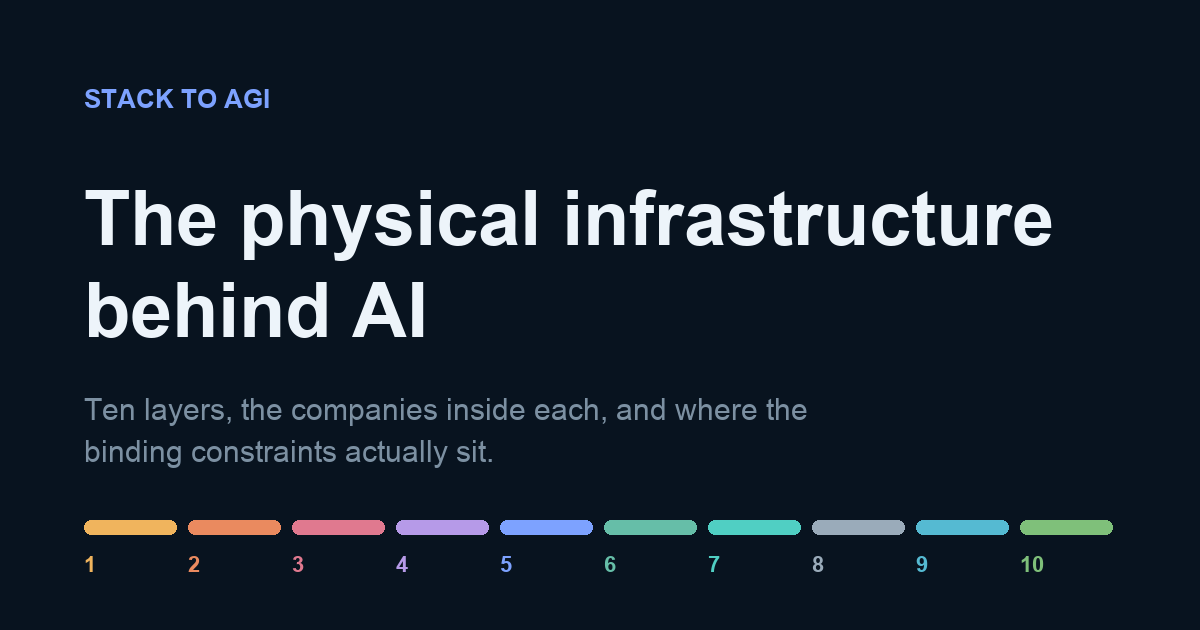
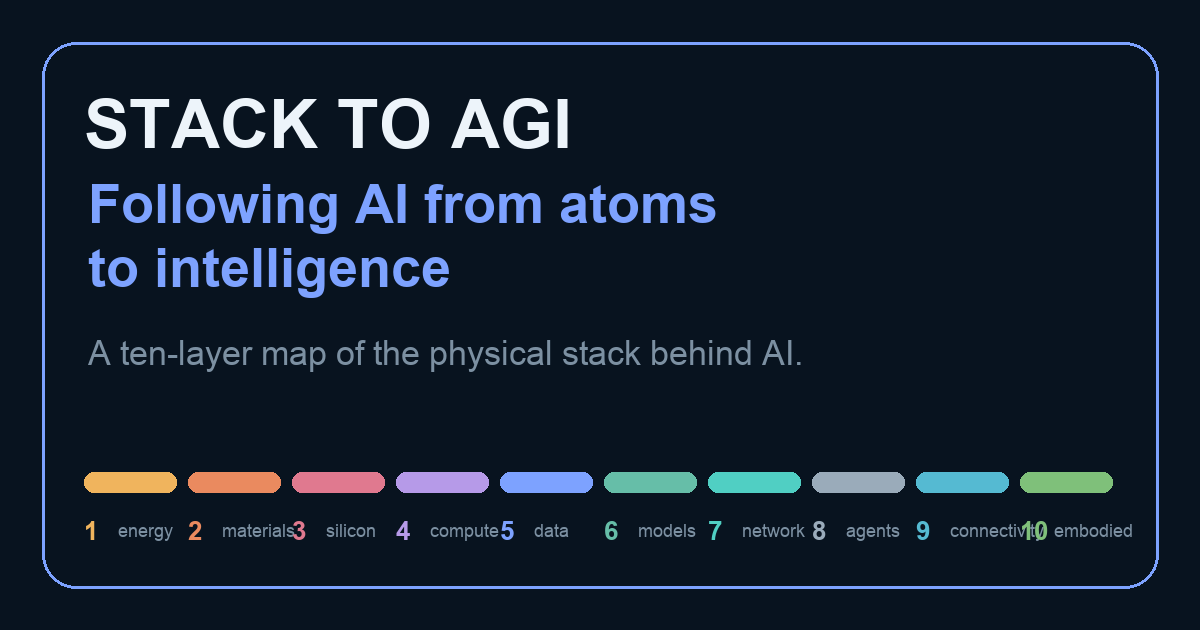
Improve Stack to AGI link preview

diff --git a/index.html b/index.html
@@ -3,20 +3,20 @@
 <head>
 <meta charset="utf-8">
 <meta name="viewport" content="width=device-width, initial-scale=1">
-<title>Stack to AGI — Infrastructure Investment Thesis · V9</title>
-<meta name="description" content="A ten-layer map of the physical infrastructure behind artificial intelligence, two fully costed build projects, and an honest account of where the thesis breaks. Revision 9, September 2026.">
+<title>Stack to AGI</title>
+<meta name="description" content="Following AI from atoms to intelligence. A ten-layer map of the physical stack behind AI.">
 <link rel="canonical" href="https://stacktoagi.com/">
 <meta property="og:type" content="website">
 <meta property="og:site_name" content="Stack to AGI">
 <meta property="og:url" content="https://stacktoagi.com/">
-<meta property="og:title" content="Stack to AGI — Infrastructure Investment Thesis · V9">
-<meta name="twitter:title" content="Stack to AGI — Infrastructure Investment Thesis · V9">
-<meta property="og:description" content="A ten-layer map of the physical infrastructure behind artificial intelligence, two fully costed build projects, and an honest account of where the thesis breaks. Revision 9, September 2026.">
-<meta name="twitter:description" content="A ten-layer map of the physical infrastructure behind artificial intelligence, two fully costed build projects, and an honest account of where the thesis breaks. Revision 9, September 2026.">
+<meta property="og:title" content="Stack to AGI">
+<meta name="twitter:title" content="Stack to AGI">
+<meta property="og:description" content="Following AI from atoms to intelligence. A ten-layer map of the physical stack behind AI.">
+<meta name="twitter:description" content="Following AI from atoms to intelligence. A ten-layer map of the physical stack behind AI.">
 <meta property="og:image" content="https://stacktoagi.com/assets/images/social-card.png">
 <meta property="og:image:width" content="1200">
 <meta property="og:image:height" content="630">
-<meta property="og:image:alt" content="Stack to AGI — the physical infrastructure behind AI">
+<meta property="og:image:alt" content="Stack to AGI — following AI from atoms to intelligence">
 <meta name="twitter:card" content="summary_large_image">
 <meta name="theme-color" content="#F6F7F9">
 <link rel="icon" type="image/svg+xml" href="assets/images/favicon.svg">

diff --git a/scripts/build-social-card.py b/scripts/build-social-card.py
@@ -36,24 +36,21 @@ def font(name, size):
 img = Image.new('RGB', (W, H), BG)
 d   = ImageDraw.Draw(img)
 
-d.text((PAD, PAD), 'STACK TO AGI', font=font('Arial Bold.ttf', 26), fill=ACCENT)
+# A compact, high-contrast card: Messages often crops this to a tiny square.
+d.rounded_rectangle([42, 42, W - 42, H - 42], radius=34, outline=ACCENT, width=3)
+d.text((PAD, 86), 'STACK TO AGI', font=font('Arial Bold.ttf', 68), fill=INK)
+d.text((PAD + 4, 174), 'Following AI from atoms', font=font('Arial Bold.ttf', 54), fill=ACCENT)
+d.text((PAD + 4, 238), 'to intelligence', font=font('Arial Bold.ttf', 54), fill=ACCENT)
+d.text((PAD + 4, 334), 'A ten-layer map of the physical stack behind AI.',
+       font=font('Arial.ttf', 34), fill=MUTED)
 
-y = 176
-for line in ['The physical infrastructure', 'behind AI']:
-    d.text((PAD, y), line, font=font('Arial Bold.ttf', 76), fill=INK)
-    y += 92
-
-d.text((PAD, 392), 'Ten layers, the companies inside each, and where the',
-       font=font('Arial.ttf', 30), fill=MUTED)
-d.text((PAD, 434), 'binding constraints actually sit.',
-       font=font('Arial.ttf', 30), fill=MUTED)
-
-# the ten layers, in order, in their own colours
+labels = ['energy', 'materials', 'silicon', 'compute', 'data', 'models', 'network', 'agents', 'connectivity', 'embodied']
 sw_w, gap = 92, 12
 x = PAD
 for i, c in enumerate(LAYERS):
-    d.rounded_rectangle([x, 520, x + sw_w, 534], radius=7, fill=c)
-    d.text((x, 552), str(i + 1), font=font('Arial Bold.ttf', 22), fill=c)
+    d.rounded_rectangle([x, 472, x + sw_w, 492], radius=10, fill=c)
+    d.text((x, 516), str(i + 1), font=font('Arial Bold.ttf', 26), fill=c)
+    d.text((x + 34, 520), labels[i], font=font('Arial.ttf', 18), fill=MUTED)
     x += sw_w + gap
 
 out = ROOT / 'assets' / 'images' / 'social-card.png'
